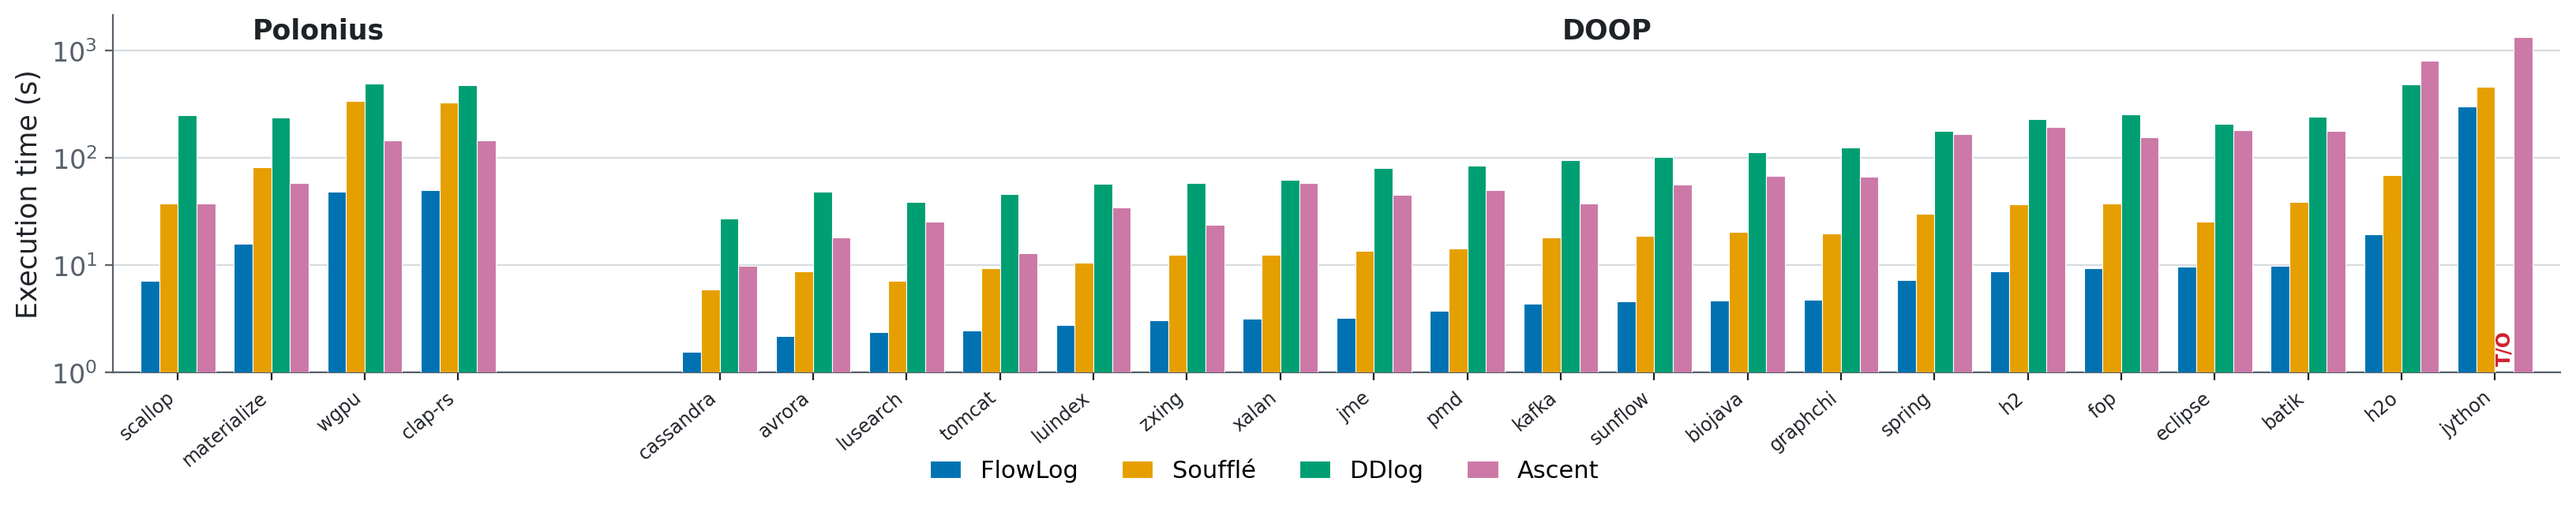
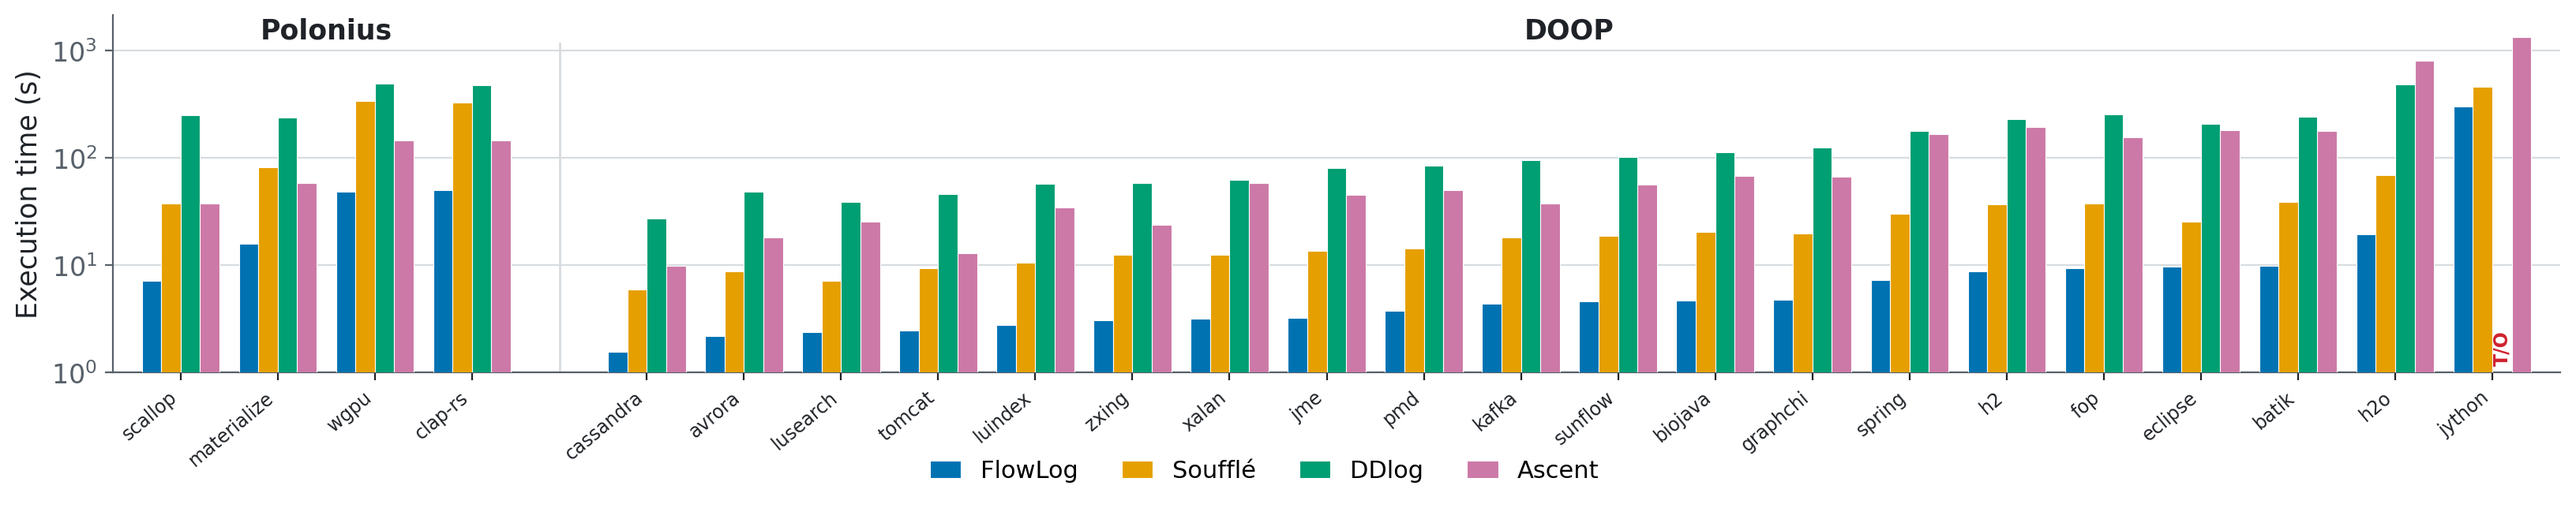
Tighten group gap; separate Polonius/DOOP with a thin divider line
Shrink the inter-group blank space and mark the boundary with a single
thin vertical line instead of wide whitespace.

diff --git a/plot/plot_paper.py b/plot/plot_paper.py
@@ -145,7 +145,7 @@ def render(groups, stem, width, annotate):
     ax.set_yscale("log")
     ax.set_ylim(ylo, yhi)
 
-    GAP = 1.8                      # blank x-units between groups
+    GAP = 0.8                      # small blank gap; a divider line marks it
     ticks, labels = [], []
     cursor = 0.0
     for gi, (name, rows) in enumerate(groups):
@@ -158,6 +158,9 @@ def render(groups, stem, width, annotate):
                 transform=blended_transform_factory(ax.transData, ax.transAxes),
                 ha="center", va="top", fontsize=12.5, fontweight="700",
                 color=TEXT_DARK)
+        if gi < len(groups) - 1:
+            ax.axvline(xb + (1 + GAP) / 2, color=GRID_FAINT, linewidth=1.0,
+                       ymax=0.92, zorder=1)
         cursor = xb + 1 + GAP
 
     ax.yaxis.set_major_locator(LogLocator(base=10, numticks=12))
